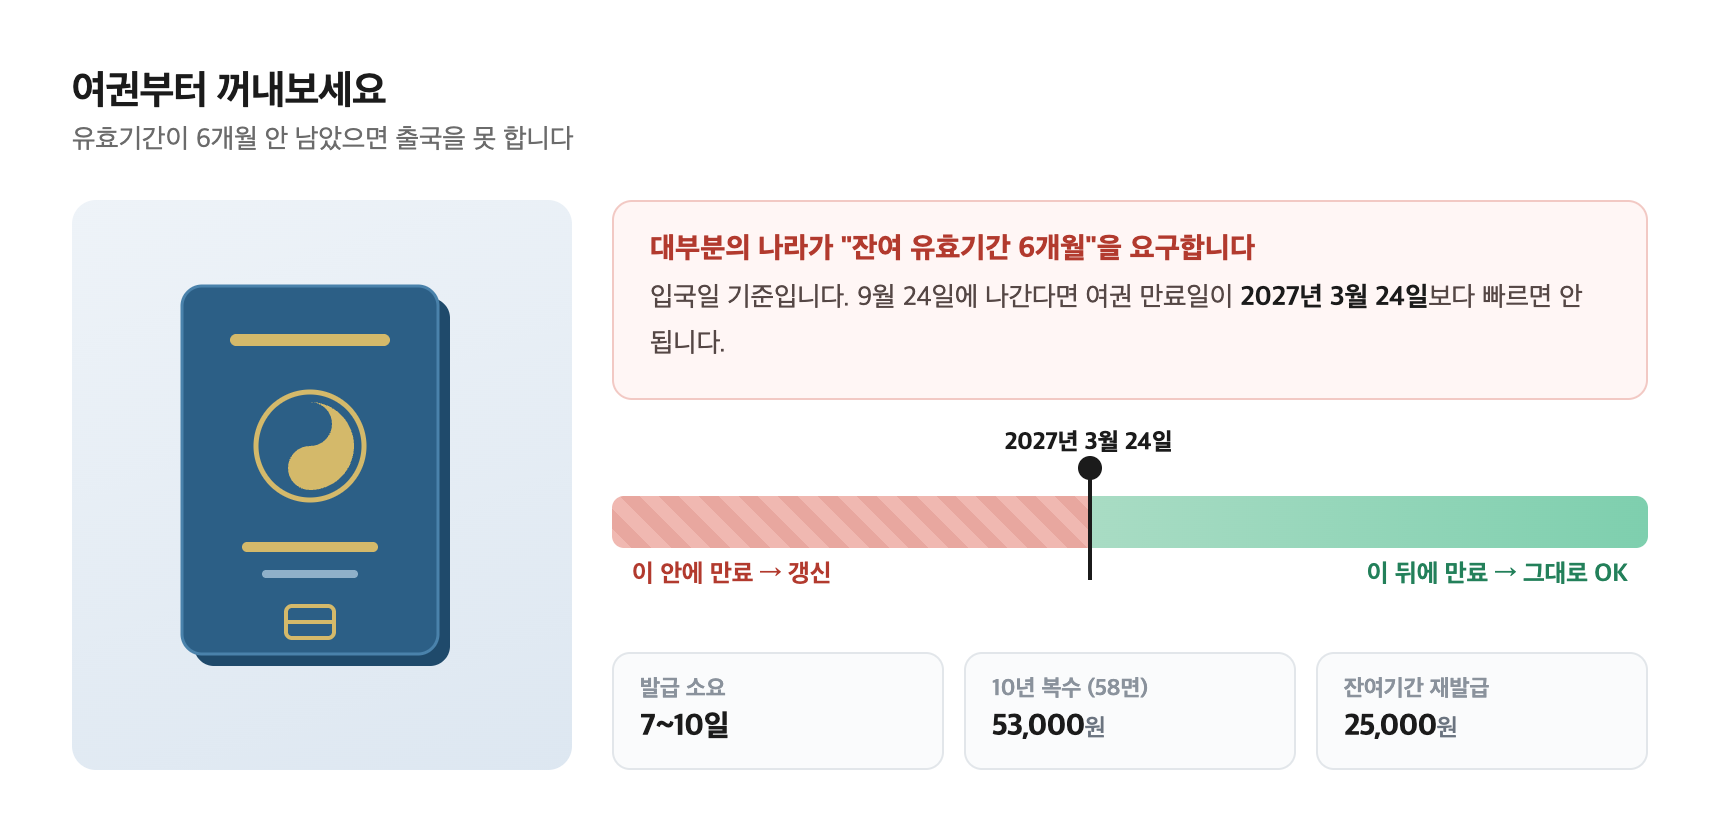
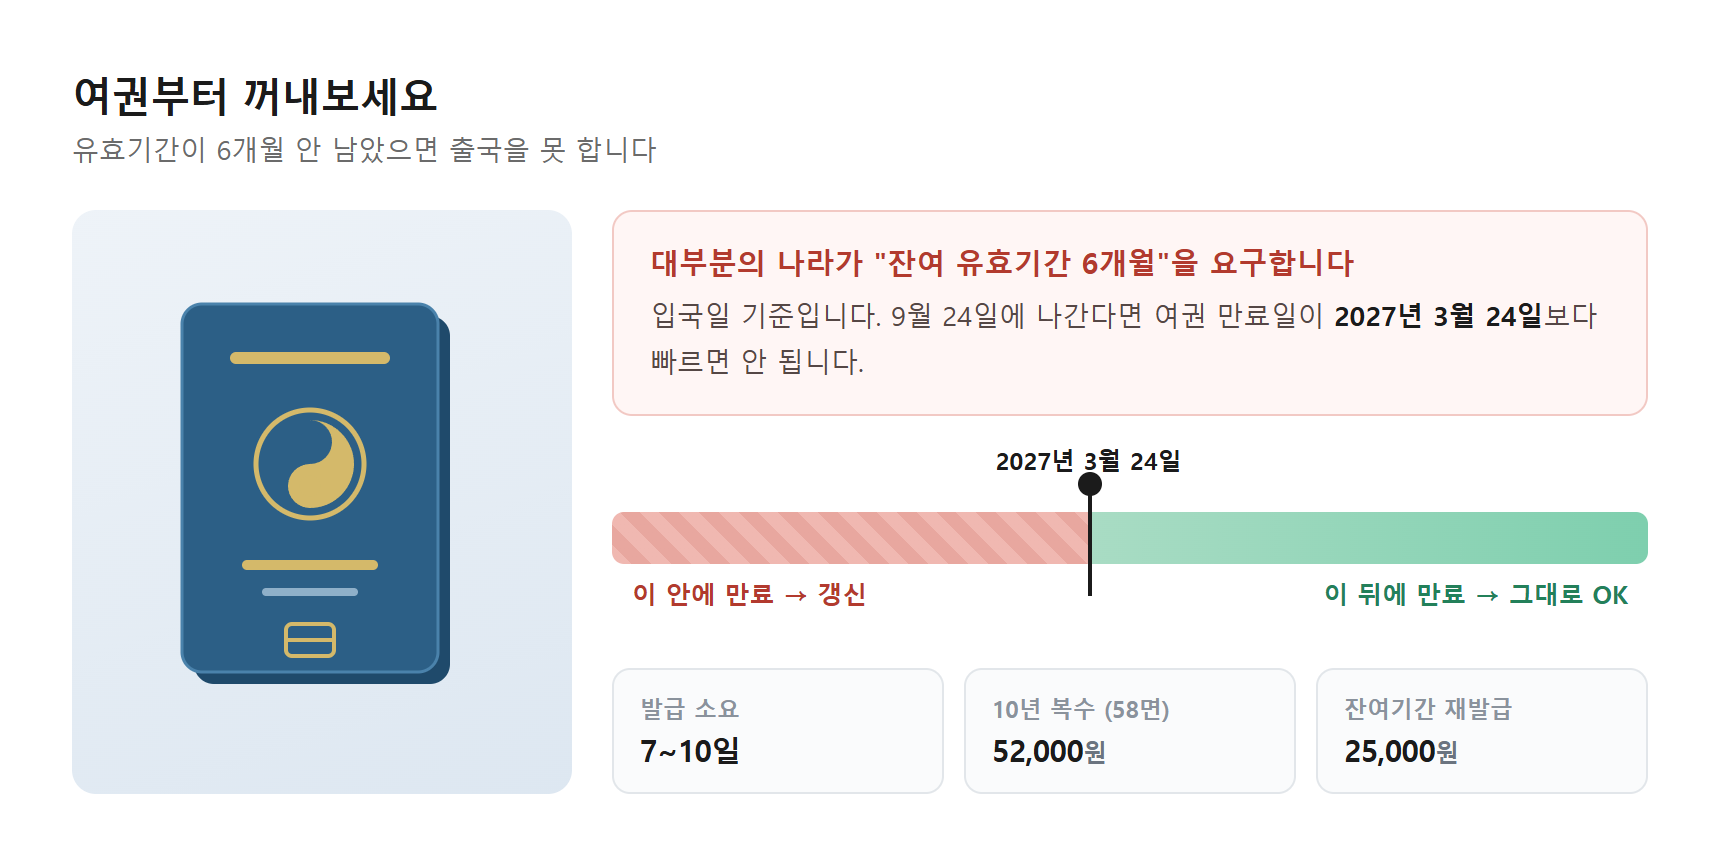
여권 재발급 도식 4종 + 추석여행 수수료 정정

diff --git a/art/pp03-fee.html b/art/pp03-fee.html
@@ -1,0 +1,57 @@
+<!doctype html>
+<meta charset="utf-8" />
+<style>
+  * { box-sizing: border-box; margin: 0; padding: 0; }
+  body { background: #fff; }
+  #art { width: 860px; padding: 34px 36px 30px; background: #fff;
+    font-family: 'Pretendard','Malgun Gothic',-apple-system,sans-serif; color: #1b1b1b; }
+  h1 { font-size: 20px; letter-spacing: -0.4px; margin-bottom: 4px; }
+  .sub { font-size: 13.5px; color: #6b6b6b; margin-bottom: 20px; }
+  .cards { display: flex; gap: 11px; margin-bottom: 15px; }
+  .cd { flex: 1; border: 1px solid #e2e6ea; border-radius: 12px; overflow: hidden; }
+  .cd .h { padding: 10px 14px; font-size: 13.5px; font-weight: 800; color: #fff; text-align: center; }
+  .cd .b { padding: 15px 15px 17px; background: #fafbfc; }
+  .cd .v { font-size: 18px; font-weight: 800; letter-spacing: -0.5px; margin-bottom: 6px; text-align: center; }
+  .cd p { font-size: 12.5px; line-height: 1.65; color: #5a6672; }
+  .cd p b { color: #1b1b1b; }
+  .rows { background: #fafbfc; border: 1px solid #e6e9ed; border-radius: 10px; padding: 18px 22px 14px; margin-bottom: 15px; }
+  .rw { display: flex; align-items: center; height: 46px; }
+  .rw .nm { width: 168px; flex-shrink: 0; font-size: 14.5px; font-weight: 800; }
+  .rw .tr { flex: 1; position: relative; height: 26px; }
+  .rw .fl { height: 26px; border-radius: 6px; }
+  .rw .tg { position: absolute; top: 3px; font-size: 14px; font-weight: 800; white-space: nowrap; }
+  .flow { display: flex; align-items: center; gap: 12px; margin-bottom: 15px; }
+  .fb { flex: 1; border-radius: 11px; padding: 15px 16px; text-align: center; }
+  .fb .k { font-size: 12px; font-weight: 700; margin-bottom: 5px; }
+  .fb .v { font-size: 21px; font-weight: 800; letter-spacing: -0.8px; }
+  .fb .n { font-size: 11.5px; margin-top: 4px; }
+  .op { font-size: 20px; font-weight: 800; color: #b8c2cc; flex-shrink: 0; }
+  .band { border-radius: 11px; padding: 15px 20px; display: flex; align-items: flex-start; gap: 16px; }
+  .band .tag { font-size: 12px; font-weight: 800; padding: 5px 13px; border-radius: 13px;
+               white-space: nowrap; flex-shrink: 0; margin-top: 1px; }
+  .band p { font-size: 13.5px; line-height: 1.75; }
+  .tbl { border: 1px solid #e6e9ed; border-radius: 10px; overflow: hidden; margin-bottom: 14px; }
+  .tbl .th { display: flex; background: #f2f5f7; padding: 11px 18px; font-size: 12.5px; font-weight: 800; color: #55606c; }
+  .tbl .td { display: flex; padding: 13px 18px; border-top: 1px solid #eef1f4; align-items: center; }
+  .tbl .td:nth-child(even) { background: #fafbfc; }
+  .tbl .c1 { flex: 1.4; font-size: 14px; font-weight: 700; }
+  .tbl .c1 small { display: block; font-size: 11.5px; color: #8a929c; font-weight: 500; margin-top: 2px; }
+  .tbl .c2 { flex: 1; text-align: right; font-size: 15px; font-weight: 800; }
+</style>
+<div id="art">
+  <h1>수수료와 걸리는 시간</h1>
+  <p class="sub">2026년 3월에 2,000원씩 올랐습니다</p>
+  <div class="flow">
+    <div class="fb" style="background:#eff6fb;border:1px solid #cfe0f0">
+      <div class="k" style="color:#2f6fb0">10년 복수 58면</div><div class="v" style="color:#1f4a7a">52,000원</div><div class="n" style="color:#2f6fb0">일반적인 선택</div></div>
+    <div class="op">/</div>
+    <div class="fb" style="background:#eef9f3;border:1px solid #a9dcc4">
+      <div class="k" style="color:#2f9e6e">10년 복수 26면</div><div class="v" style="color:#1d7050">49,000원</div><div class="n" style="color:#2f9e6e">여행이 잦지 않다면</div></div>
+    <div class="op">/</div>
+    <div class="fb" style="background:#fdf6e9;border:1px solid #f0dfc4">
+      <div class="k" style="color:#d4832f">발급까지</div><div class="v" style="color:#9a6413">7 ~ 10일</div><div class="n" style="color:#d4832f">성수기엔 더 걸립니다</div></div>
+  </div>
+  <div class="band" style="background:#1b1b1b">
+    <div class="tag" style="background:#7ee0b0;color:#1b1b1b">언제 신청하나</div>
+    <p style="color:#d8dee4">여권은 <b>유효기간이 6개월 미만</b>이면 입국을 거부하는 나라가 많습니다.<br />여행 계획이 있으면 <b>출발 두 달 전</b>에는 확인하고 신청하는 게 안전해요</p></div>
+</div>

diff --git a/art/pp01-who.html b/art/pp01-who.html
@@ -1,0 +1,55 @@
+<!doctype html>
+<meta charset="utf-8" />
+<style>
+  * { box-sizing: border-box; margin: 0; padding: 0; }
+  body { background: #fff; }
+  #art { width: 860px; padding: 34px 36px 30px; background: #fff;
+    font-family: 'Pretendard','Malgun Gothic',-apple-system,sans-serif; color: #1b1b1b; }
+  h1 { font-size: 20px; letter-spacing: -0.4px; margin-bottom: 4px; }
+  .sub { font-size: 13.5px; color: #6b6b6b; margin-bottom: 20px; }
+  .cards { display: flex; gap: 11px; margin-bottom: 15px; }
+  .cd { flex: 1; border: 1px solid #e2e6ea; border-radius: 12px; overflow: hidden; }
+  .cd .h { padding: 10px 14px; font-size: 13.5px; font-weight: 800; color: #fff; text-align: center; }
+  .cd .b { padding: 15px 15px 17px; background: #fafbfc; }
+  .cd .v { font-size: 18px; font-weight: 800; letter-spacing: -0.5px; margin-bottom: 6px; text-align: center; }
+  .cd p { font-size: 12.5px; line-height: 1.65; color: #5a6672; }
+  .cd p b { color: #1b1b1b; }
+  .rows { background: #fafbfc; border: 1px solid #e6e9ed; border-radius: 10px; padding: 18px 22px 14px; margin-bottom: 15px; }
+  .rw { display: flex; align-items: center; height: 46px; }
+  .rw .nm { width: 168px; flex-shrink: 0; font-size: 14.5px; font-weight: 800; }
+  .rw .tr { flex: 1; position: relative; height: 26px; }
+  .rw .fl { height: 26px; border-radius: 6px; }
+  .rw .tg { position: absolute; top: 3px; font-size: 14px; font-weight: 800; white-space: nowrap; }
+  .flow { display: flex; align-items: center; gap: 12px; margin-bottom: 15px; }
+  .fb { flex: 1; border-radius: 11px; padding: 15px 16px; text-align: center; }
+  .fb .k { font-size: 12px; font-weight: 700; margin-bottom: 5px; }
+  .fb .v { font-size: 21px; font-weight: 800; letter-spacing: -0.8px; }
+  .fb .n { font-size: 11.5px; margin-top: 4px; }
+  .op { font-size: 20px; font-weight: 800; color: #b8c2cc; flex-shrink: 0; }
+  .band { border-radius: 11px; padding: 15px 20px; display: flex; align-items: flex-start; gap: 16px; }
+  .band .tag { font-size: 12px; font-weight: 800; padding: 5px 13px; border-radius: 13px;
+               white-space: nowrap; flex-shrink: 0; margin-top: 1px; }
+  .band p { font-size: 13.5px; line-height: 1.75; }
+  .tbl { border: 1px solid #e6e9ed; border-radius: 10px; overflow: hidden; margin-bottom: 14px; }
+  .tbl .th { display: flex; background: #f2f5f7; padding: 11px 18px; font-size: 12.5px; font-weight: 800; color: #55606c; }
+  .tbl .td { display: flex; padding: 13px 18px; border-top: 1px solid #eef1f4; align-items: center; }
+  .tbl .td:nth-child(even) { background: #fafbfc; }
+  .tbl .c1 { flex: 1.4; font-size: 14px; font-weight: 700; }
+  .tbl .c1 small { display: block; font-size: 11.5px; color: #8a929c; font-weight: 500; margin-top: 2px; }
+  .tbl .c2 { flex: 1; text-align: right; font-size: 15px; font-weight: 800; }
+</style>
+<div id="art">
+  <h1>온라인으로 되는 사람이 정해져 있습니다</h1>
+  <p class="sub">처음 만드는 여권은 안 됩니다</p>
+  <div class="cards">
+    <div class="cd"><div class="h" style="background:#2f9e6e">온라인 가능</div>
+      <div class="b"><div class="v" style="color:#1d7050">재발급</div><p><b>전자여권을 한 번이라도</b> 받은 적 있는 <b>18세 이상</b>이면 됩니다</p></div></div>
+    <div class="cd"><div class="h" style="background:#cf4f43">방문해야 함</div>
+      <div class="b"><div class="v" style="color:#b8463a">첫 발급</div><p>여권을 <b>처음 만드는 경우</b>는 직접 가야 합니다</p></div></div>
+    <div class="cd"><div class="h" style="background:#cf4f43">방문해야 함</div>
+      <div class="b"><div class="v" style="color:#b8463a">미성년자</div><p>18세 미만은 <b>온라인 신청이 안 됩니다</b></p></div></div>
+  </div>
+  <div class="band" style="background:#1b1b1b">
+    <div class="tag" style="background:#7ee0b0;color:#1b1b1b">수령은 무조건 방문</div>
+    <p style="color:#d8dee4">신청은 온라인으로 해도 <b>여권은 본인이 직접 받으러 가야</b> 합니다. 보안 때문이에요. 신청할 때 <b>받을 기관</b>을 골라두면 됩니다</p></div>
+</div>

diff --git a/art/pp02-photo.html b/art/pp02-photo.html
@@ -1,0 +1,57 @@
+<!doctype html>
+<meta charset="utf-8" />
+<style>
+  * { box-sizing: border-box; margin: 0; padding: 0; }
+  body { background: #fff; }
+  #art { width: 860px; padding: 34px 36px 30px; background: #fff;
+    font-family: 'Pretendard','Malgun Gothic',-apple-system,sans-serif; color: #1b1b1b; }
+  h1 { font-size: 20px; letter-spacing: -0.4px; margin-bottom: 4px; }
+  .sub { font-size: 13.5px; color: #6b6b6b; margin-bottom: 20px; }
+  .cards { display: flex; gap: 11px; margin-bottom: 15px; }
+  .cd { flex: 1; border: 1px solid #e2e6ea; border-radius: 12px; overflow: hidden; }
+  .cd .h { padding: 10px 14px; font-size: 13.5px; font-weight: 800; color: #fff; text-align: center; }
+  .cd .b { padding: 15px 15px 17px; background: #fafbfc; }
+  .cd .v { font-size: 18px; font-weight: 800; letter-spacing: -0.5px; margin-bottom: 6px; text-align: center; }
+  .cd p { font-size: 12.5px; line-height: 1.65; color: #5a6672; }
+  .cd p b { color: #1b1b1b; }
+  .rows { background: #fafbfc; border: 1px solid #e6e9ed; border-radius: 10px; padding: 18px 22px 14px; margin-bottom: 15px; }
+  .rw { display: flex; align-items: center; height: 46px; }
+  .rw .nm { width: 168px; flex-shrink: 0; font-size: 14.5px; font-weight: 800; }
+  .rw .tr { flex: 1; position: relative; height: 26px; }
+  .rw .fl { height: 26px; border-radius: 6px; }
+  .rw .tg { position: absolute; top: 3px; font-size: 14px; font-weight: 800; white-space: nowrap; }
+  .flow { display: flex; align-items: center; gap: 12px; margin-bottom: 15px; }
+  .fb { flex: 1; border-radius: 11px; padding: 15px 16px; text-align: center; }
+  .fb .k { font-size: 12px; font-weight: 700; margin-bottom: 5px; }
+  .fb .v { font-size: 21px; font-weight: 800; letter-spacing: -0.8px; }
+  .fb .n { font-size: 11.5px; margin-top: 4px; }
+  .op { font-size: 20px; font-weight: 800; color: #b8c2cc; flex-shrink: 0; }
+  .band { border-radius: 11px; padding: 15px 20px; display: flex; align-items: flex-start; gap: 16px; }
+  .band .tag { font-size: 12px; font-weight: 800; padding: 5px 13px; border-radius: 13px;
+               white-space: nowrap; flex-shrink: 0; margin-top: 1px; }
+  .band p { font-size: 13.5px; line-height: 1.75; }
+  .tbl { border: 1px solid #e6e9ed; border-radius: 10px; overflow: hidden; margin-bottom: 14px; }
+  .tbl .th { display: flex; background: #f2f5f7; padding: 11px 18px; font-size: 12.5px; font-weight: 800; color: #55606c; }
+  .tbl .td { display: flex; padding: 13px 18px; border-top: 1px solid #eef1f4; align-items: center; }
+  .tbl .td:nth-child(even) { background: #fafbfc; }
+  .tbl .c1 { flex: 1.4; font-size: 14px; font-weight: 700; }
+  .tbl .c1 small { display: block; font-size: 11.5px; color: #8a929c; font-weight: 500; margin-top: 2px; }
+  .tbl .c2 { flex: 1; text-align: right; font-size: 15px; font-weight: 800; }
+</style>
+<div id="art">
+  <h1>사진 규격이 까다롭습니다</h1>
+  <p class="sub">여기서 반려가 제일 많이 납니다</p>
+  <div class="tbl"><div class="th"><div class="c1">항목</div><div class="c2">기준</div></div>
+    <div class="td"><div class="c1">파일 형식<small>JPG 또는 JPEG</small></div>
+      <div class="c2" style="color:#1f4a7a">JPG</div></div>
+    <div class="td"><div class="c1">파일 크기<small>용량이 넘으면 업로드가 안 됩니다</small></div>
+      <div class="c2" style="color:#1f4a7a">500KB 이하</div></div>
+    <div class="td"><div class="c1">해상도<small>가로 413 × 세로 531</small></div>
+      <div class="c2" style="color:#1d7050">413 x 531</div></div>
+    <div class="td"><div class="c1">배경<small>무늬나 그림자가 있으면 반려됩니다</small></div>
+      <div class="c2" style="color:#b8463a">흰색</div></div>
+  </div>
+  <div class="band" style="background:#1b1b1b">
+    <div class="tag" style="background:#ffd97a;color:#1b1b1b">사진관에서</div>
+    <p style="color:#d8dee4">규격을 맞추기 까다로워서 <b>여권사진 촬영</b>으로 찍으면 파일까지 규격대로 줍니다. 집에서 찍은 사진으로 하다 반려되면 더 오래 걸려요</p></div>
+</div>

diff --git a/art/tc-passport.html b/art/tc-passport.html
@@ -1,0 +1,27 @@
+<!doctype html>
+<meta charset="utf-8" />
+<style>
+  * { box-sizing: border-box; margin: 0; padding: 0; }
+  body { background: #fff; }
+  #art { width: 800px; height: 800px; padding: 74px 64px;
+    background: linear-gradient(160deg,#eef1f7,#cdd4e6);
+    font-family: 'Pretendard','Malgun Gothic',-apple-system,sans-serif; color: #22284a;
+    display: flex; flex-direction: column; justify-content: center; position: relative; }
+  .tag { display: inline-block; align-self: flex-start; background: #3a4480; color: #fff;
+    font-size: 21px; font-weight: 800; padding: 10px 22px; border-radius: 30px; margin-bottom: 34px; }
+  h1 { font-size: 56px; line-height: 1.2; letter-spacing: -2px; font-weight: 800; }
+  h1 .hl { color: #3a4480; }
+  .sub { margin-top: 28px; font-size: 25px; color: #5a628f; font-weight: 600; }
+  .sub b { color: #1d7050; }
+  .badge { position: absolute; top: 130px; right: 64px; background: #3a4480; color: #fff;
+    border-radius: 26px; padding: 18px 30px; font-size: 34px; font-weight: 800; letter-spacing: -1px; }
+  .badge small { display: block; font-size: 17px; font-weight: 700; opacity: .9; margin-bottom: 4px; }
+  .foot { position: absolute; bottom: 56px; right: 64px; font-size: 20px; color: #9198bb; font-weight: 700; }
+</style>
+<div id="art">
+  <div class="badge"><small>정부24</small>온라인</div>
+  <div class="tag">여권 재발급</div>
+  <h1>집에서<br /><span class="hl">신청됩니다</span></h1>
+  <p class="sub">수수료 <b>52,000원</b></p>
+  <div class="foot">heelovee.tistory.com</div>
+</div>

diff --git a/art/ct03-passport.html b/art/ct03-passport.html
@@ -86,7 +86,7 @@
 
       <div class="facts">
         <div class="f"><div class="k">발급 소요</div><div class="v">7~10일</div></div>
-        <div class="f"><div class="k">10년 복수 (58면)</div><div class="v">53,000<small>원</small></div></div>
+        <div class="f"><div class="k">10년 복수 (58면)</div><div class="v">52,000<small>원</small></div></div>
         <div class="f"><div class="k">잔여기간 재발급</div><div class="v">25,000<small>원</small></div></div>
       </div>
     </div>
